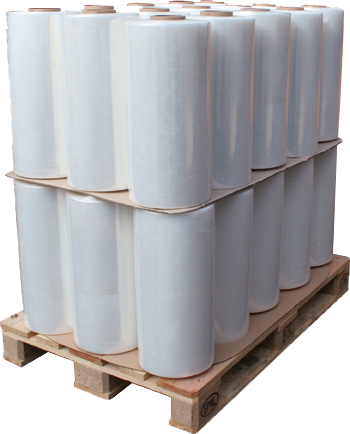
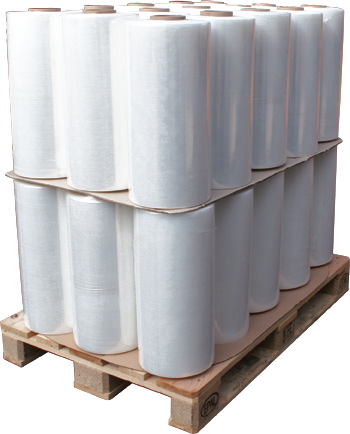
Desktop hero: rebalance grid tracks and make product photos fill panel

diff --git a/styles.css b/styles.css
@@ -116,8 +116,15 @@ footer .brand-logo{height:52px;max-width:250px}
 
 /* desktop: product photos fill the panel (mobile rules below stay untouched) */
 @media(min-width:861px){
-  .slides{height:clamp(520px,38vw,620px)}
-  .slide img{flex:1 1 auto;min-height:0;width:100%;max-width:100%;max-height:none}
+  /* Desktop only: headline/grid tracks capped so the copy column can't starve
+     the showcase panel; photos fill panel height without cropping. */
+  .hero{grid-template-columns:minmax(0,1.2fr) minmax(0,1fr)}
+  .hero-copy,.hero-art{min-width:0}
+  .hero-art{width:100%}
+  .hero h1{font-size:clamp(40px,4.4vw,62px)}
+  .slides{height:clamp(480px,36vw,580px);max-width:none}
+  .slide{min-width:0}
+  .slide img{flex:1 1 auto;min-width:0;min-height:0;width:100%;height:100%;max-width:100%;max-height:100%;object-fit:contain}
   .show-dots{padding:10px 0 14px}
 }
 
